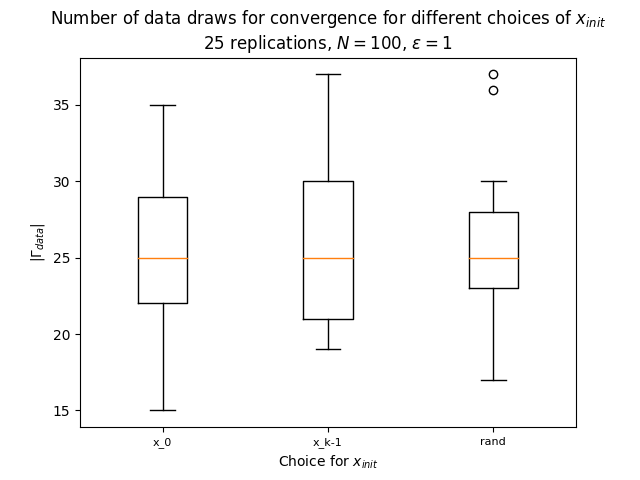
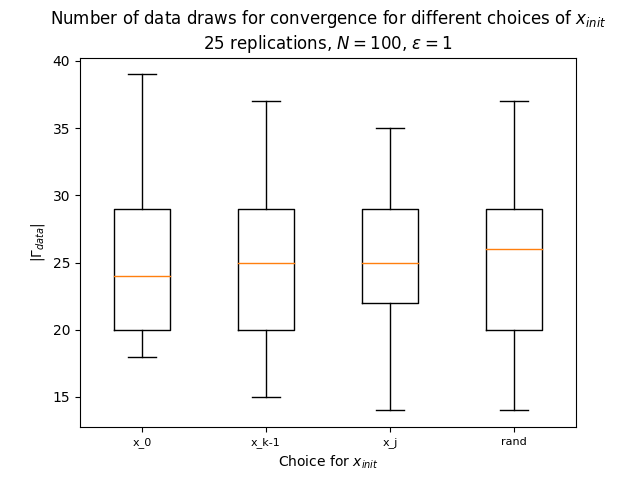
opt study updates

diff --git a/STUDY_optstep.py b/STUDY_optstep.py
@@ -124,6 +124,58 @@ def get_bayes_min_cand(truthdraws, Wvec, paramdict, xinit='na', optmethod='BFGS'
                              args=(truthdraws, Wvec, paramdict, riskmat))
     return spoOutput
 
+##############
+# For SFP rates defined on R
+def cand_obj_val_expit(beta, truthdraws_beta, Wvec, paramdict, riskmat):
+    '''function for optimization step'''
+    numnodes = beta.shape[0]
+    scoremat = lf.score_diff_matrix(sps.expit(truthdraws_beta), sps.expit(beta).reshape(1, numnodes), paramdict['scoredict'])[0]
+    return np.sum(np.sum(scoremat*riskmat,axis=1)*Wvec)
+def cand_obj_val_expit_jac(beta, truthdraws_beta, Wvec, paramdict, riskmat):
+    """function gradient for optimization step"""
+    jacmat = np.where(beta < truthdraws_beta, -paramdict['scoredict']['underestweight'], 1) *\
+             (np.exp(beta)/((1+np.exp(beta))**2)) *\
+              riskmat * Wvec.reshape(truthdraws_beta.shape[0],1)
+    return np.sum(jacmat, axis=0)
+def get_bayes_min_cand_expit(truthdraws_beta, Wvec, paramdict, betainit='na', optmethod='BFGS'):
+    # Initialize with random truthdraw if not provided
+    if isinstance(xinit, str):
+        betainit = truthdraws_beta[choice(np.arange(truthdraws_beta.shape[0]))]
+    # Get risk matrix
+    riskmat = lf.risk_check_array(sps.expit(truthdraws_beta), paramdict['riskdict'])
+    # Minimize expected candidate loss
+    #bds = spo.Bounds(np.repeat(0., xinit.shape[0]), np.repeat(1., xinit.shape[0]))
+    spoOutput = spo.minimize(cand_obj_val, betainit, jac=cand_obj_val_jac,
+                             method=optmethod,
+                             args=(truthdraws_beta, Wvec, paramdict, riskmat))
+    return spoOutput
+###############
+
+numReps = 100
+obj_delta_mat = np.zeros((2,numReps))
+time_delta_mat = np.zeros((2,numReps))
+for rep in range(numReps):
+    print('Rep: '+str(rep))
+    xinit = truthdraws[choice(np.arange(len(truthdraws)))]
+    betainit, truthdraws_beta = sps.logit(xinit), sps.logit(truthdraws)
+    Wvec = W[:,rep]
+    # Non-transformed x first
+    time0=time.time()
+    curroptobj = get_bayes_min_cand(truthdraws, Wvec, paramdict, xinit, optmethod='L-BFGS-B')
+    time_delta_mat[0][rep] = round(time.time() - time0,3)
+    obj_delta_mat[0][rep] = curroptobj.fun
+    # Beta next
+    time0 = time.time()
+    curroptobj = get_bayes_min_cand_expit(truthdraws_beta, Wvec, paramdict, betainit, optmethod='L-BFGS-B')
+    time_delta_mat[1][rep] = round(time.time() - time0, 3)
+    obj_delta_mat[1][rep] = curroptobj.fun
+plt.boxplot(time_delta_mat.T)
+plt.show()
+plt.close()
+plt.boxplot(obj_delta_mat.T)
+plt.show()
+plt.close()
+
 # Do any methods work faster than any others?
 # Omitted 'Nelder-Mead', 'dogleg', 'trust-krylov'
 methodlist = ['Powell', 'CG', 'BFGS', 'L-BFGS-B', 'TNC', 'COBYLA', 'SLSQP',
@@ -526,7 +578,7 @@ numtruthdraws, numdatadraws = 5000, 500
 
 method = 'L-BFGS-B'
 
-xinit_list = ['x_0', 'x_k-1', 'rand']
+xinit_list = ['x_0', 'x_k-1', 'x_j', 'rand']
 
 numReps = 25
 loss_est_mat_xinit, time_mat_xinit = np.zeros((len(xinit_list),numReps)), np.zeros((len(xinit_list),numReps))
@@ -562,6 +614,8 @@ for rep in range(numReps):
         while (np.max(rangeList)-np.min(rangeList)) / np.min(rangeList) > epsPerc and j < numdatadraws-1:
             j +=1 # iterate data draw index
             Wvec = W[:, j] # Get W vector for current data draw
+            if xinitstr == 'x_j': # EXPERIMENT PART
+                xinit = datadraws[j]
             opt_output = get_bayes_min_cand(truthdraws, Wvec, paramdict, xinit, optmethod=method)
             minvalslist.append(opt_output.fun)
             cumavglist = np.cumsum(minvalslist) / np.arange(1, j + 2)
@@ -571,6 +625,7 @@ for rep in range(numReps):
         datadrawsneeded_mat_xinit[xinitind][rep] = j + 1
         loss_est_mat_xinit[xinitind][rep] = cumavglist[-1]
         time_mat_xinit[xinitind][rep] = time.time() - time0
+        print(xinitstr)
         print(time.time()-time0)
 '''
 np.save(os.path.join('studies', 'diroptexperiments_25MAY23', 'datadrawsneeded_mat_xinit'), 
@@ -585,7 +640,7 @@ xlabs = []
 for x in xinit_list:
     xlabs.append(str(x))
 plt.boxplot(np.array(time_mat_xinit).T)
-plt.xticks(np.arange(1,4),xlabs,size=8)
+plt.xticks(np.arange(1, 5),xlabs,size=8)
 plt.title('Time (in sec.) needed to converge for different choices of $x_{init}$\n25 replications, $N=100$, $\epsilon=1$%')
 plt.ylabel('Time (s)')
 plt.xlabel('Choice for $x_{init}$')
@@ -597,7 +652,7 @@ xlabs = []
 for x in xinit_list:
     xlabs.append(str(x))
 plt.boxplot(np.array(loss_est_mat_xinit).T)
-plt.xticks(np.arange(1, 4),xlabs,size=8)
+plt.xticks(np.arange(1, 5),xlabs,size=8)
 plt.title('Loss estimates after convergence for different choices of $x_{init}$\n25 replications, $N=100$, $\epsilon=1%$')
 plt.ylabel('Loss estimate')
 plt.xlabel('Choice for $x_{init}$')
@@ -609,7 +664,7 @@ xlabs = []
 for x in xinit_list:
     xlabs.append(str(x))
 plt.boxplot(np.array(datadrawsneeded_mat_xinit).T)
-plt.xticks(np.arange(1, 4),xlabs,size=8)
+plt.xticks(np.arange(1, 5),xlabs,size=8)
 plt.title('Number of data draws for convergence for different choices of $x_{init}$\n25 replications, $N=100$, $\epsilon=1%$')
 plt.ylabel('$|\Gamma_{data}|$')
 plt.xlabel('Choice for $x_{init}$')

diff --git a/STUDY_optexample.py b/STUDY_optexample.py
@@ -94,16 +94,16 @@ numdraws = 20000
 csdict_fam['numPostSamples'] = numdraws
 csdict_fam = methods.GeneratePostSamples(csdict_fam)
 
-numcanddraws, numtruthdraws, numdatadraws  = 5000, 5000, 3000
+numcanddraws, numtruthdraws, numdatadraws  = 5000, 5000, 500
 
 paramdict = lf.build_diffscore_checkrisk_dict(scoreunderestwt=5., riskthreshold=0.15, riskslope=0.6,
                                               marketvec=np.ones(numTN + numSN))
 sampbudget = 100
 allocarr = np.array([0., 1., 0., 0.]) * sampbudget
 
-epsPerc, stoprange = 0.01, 10 # Desired accuracy of loss estimate, expressed as a percentage; also number of last observations to consider
+epsPerc, stoprange = 0.005, 10 # Desired accuracy of loss estimate, expressed as a percentage; also number of last observations to consider
 numtruthdraws, numdatadraws = 5000, 500
-method = 'BFGS'
+method = 'L-BFGS-B'
 
 # OPTIMIZATION STEP ALGORITHM
 csdict_fam = methods.GeneratePostSamples(csdict_fam)
@@ -119,14 +119,14 @@ while (np.max(rangeList)-np.min(rangeList)) / np.min(rangeList) > epsPerc and j 
     j +=1 # iterate data draw index
     print('On data draw '+str(j))
     Wvec = W[:, j] # Get W vector for current data draw
-    opt_output = get_bayes_min_cand(truthdraws, Wvec, paramdict, optmethod=method)
+    opt_output = get_bayes_min_cand(truthdraws, Wvec, paramdict, xinit=datadraws[j],  optmethod=method)
     minvalslist.append(opt_output.fun)
     cumavglist = np.cumsum(minvalslist) / np.arange(1, j + 2)
     if j > stoprange:
         rangeList = cumavglist[-stoprange:]
         print((np.max(rangeList)-np.min(rangeList)) / np.min(rangeList))
-print('Loss estimate: ' + cumavglist[-1])
-print('Calculation time: ' + time.time() - time0)
+print('Loss estimate: ' + str(cumavglist[-1]))
+print('Calculation time: ' + str(time.time() - time0))
 
 
 
